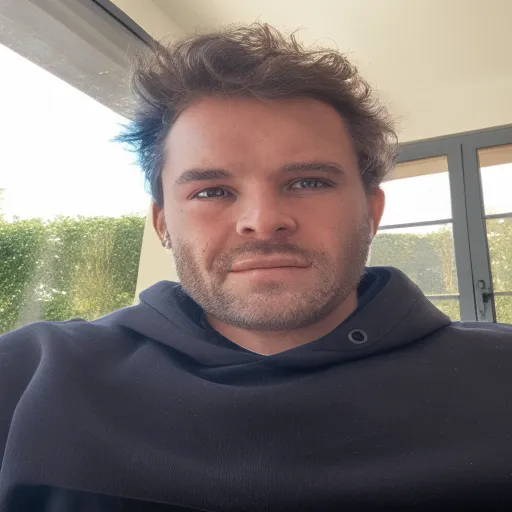
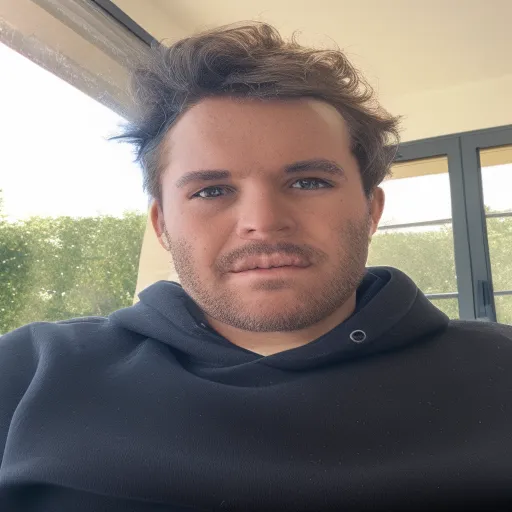
featured image

diff --git a/enhance_image.py b/enhance_image.py
@@ -36,7 +36,7 @@ prompt = "With blonde hair, and smiling."
 negative_prompt = "ugly, deformed, disfigured, poor details, bad anatomy"
 
 # pass prompt and image to pipeline
-image = pipeline(prompt, negative_prompt=negative_prompt image=init_image, strength=0.05, guidance_scale=1.0).images[0]
+image = pipeline(prompt, negative_prompt=negative_prompt, image=init_image, strength=0.05, guidance_scale=1.0).images[0]
 # Save the upscaled and resized image as a .webp file
 image.save("featured_image.webp", format="WEBP")
 #make_image_grid([init_image, image], rows=1, cols=2)
